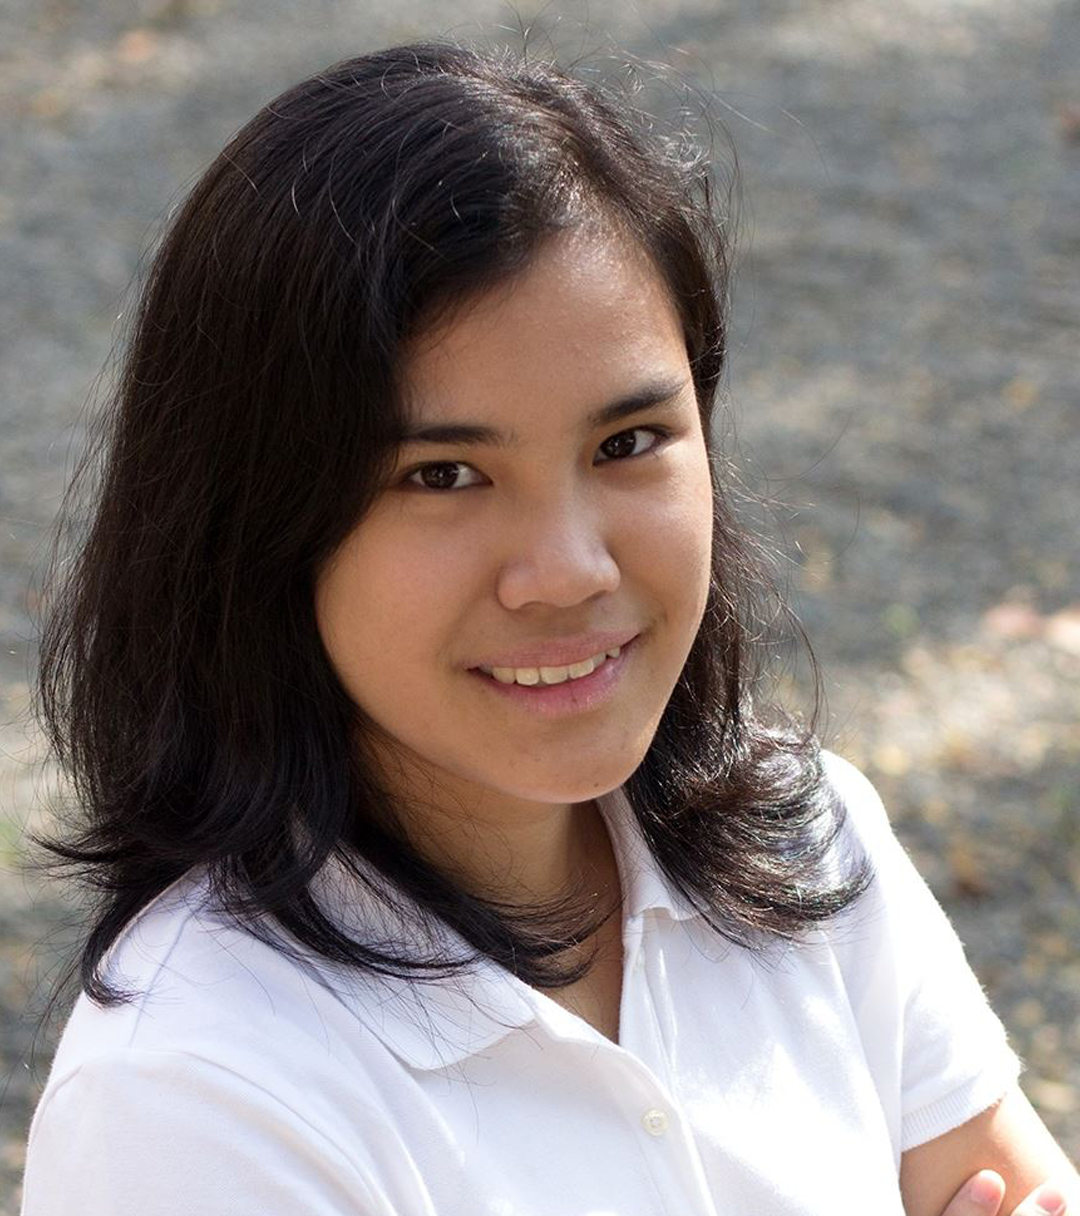
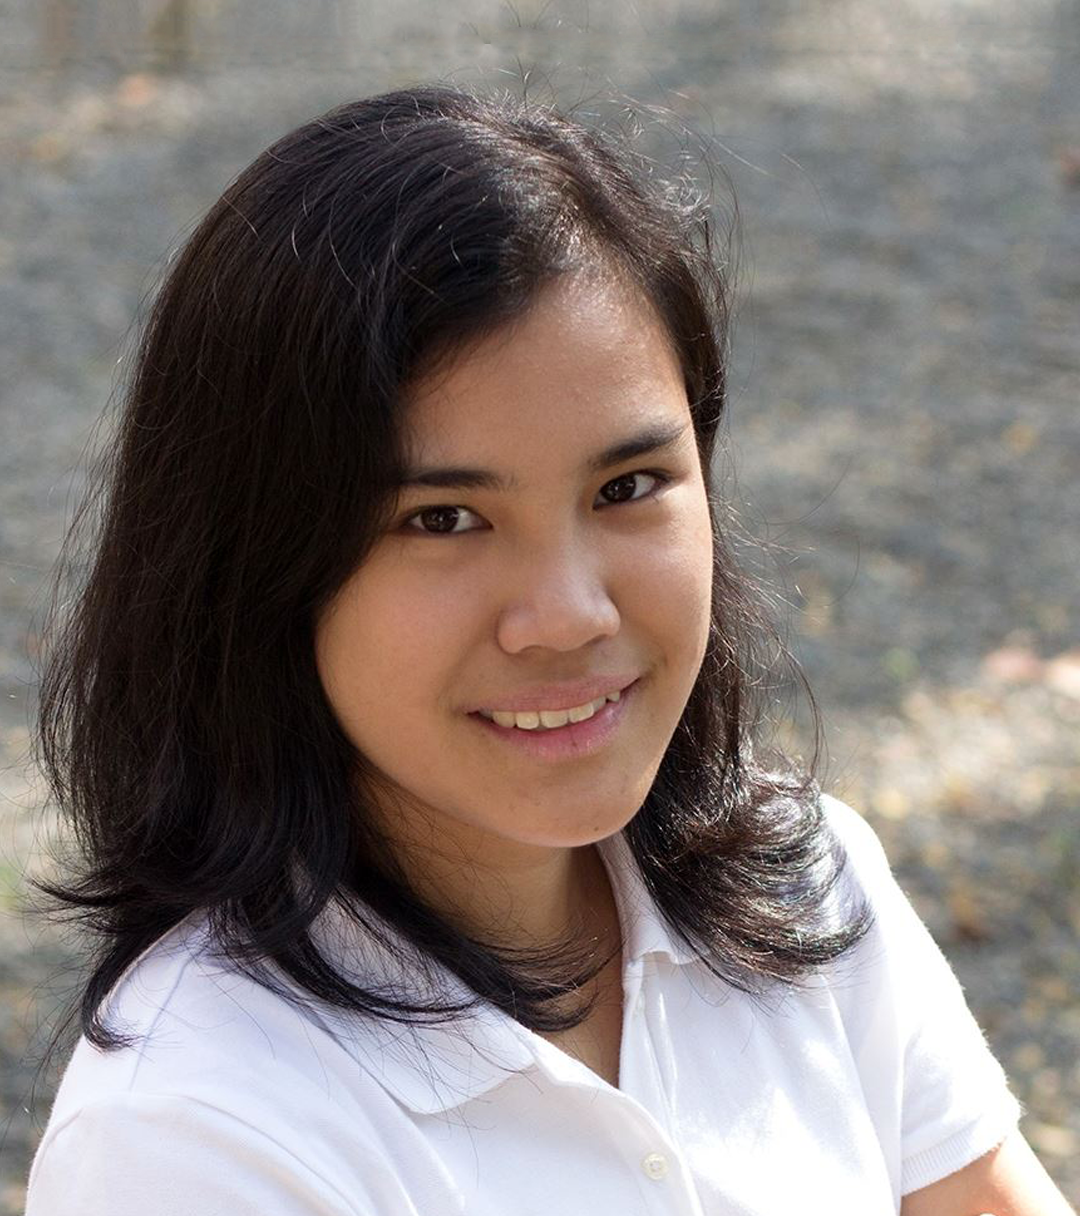
- Updated team

diff --git a/app/page.tsx b/app/page.tsx
@@ -326,7 +326,7 @@ export default function HomePage() {
               },
               {
                 name: "JACKIE VICENTE",
-                title: "Co-Founder / Chief Operations Officer",
+                title: "Creative Producer / Chief Operations Officer",
                 image: "/Team/JaquelineVicente.png",
               },
               {
@@ -336,15 +336,15 @@ export default function HomePage() {
               },
               {
                 name: "JOHN LEO RUIN",
-                title: "Co-Founder / Creative Director",
-                image: "/Team/team-member-4.png",
+                title: "Co-Founder / VFX Director",
+                image: "/Team/JohnLeoRuin.png",
               },
             ].map((member) => (
               <div
                 key={member.name}
                 className="fade-in flex h-full flex-col overflow-hidden rounded-2xl border border-border/60 shadow-lg shadow-black/10"
               >
-                <div className="relative aspect-[6/5.5] w-full overflow-hidden">
+                <div className="relative aspect-[6/6] w-full overflow-hidden">
                   <img
                     src={member.image}
                     alt={member.name}
